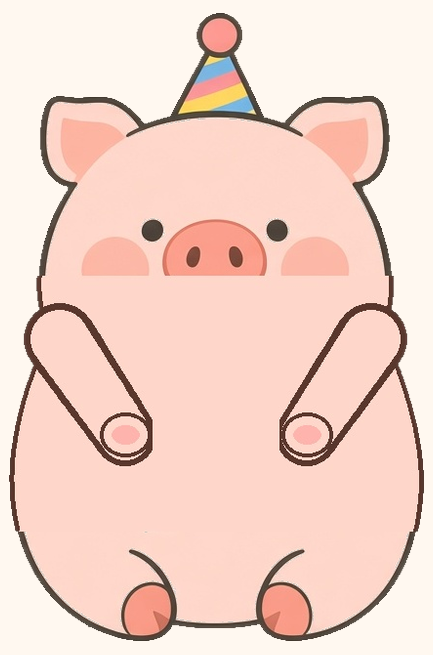
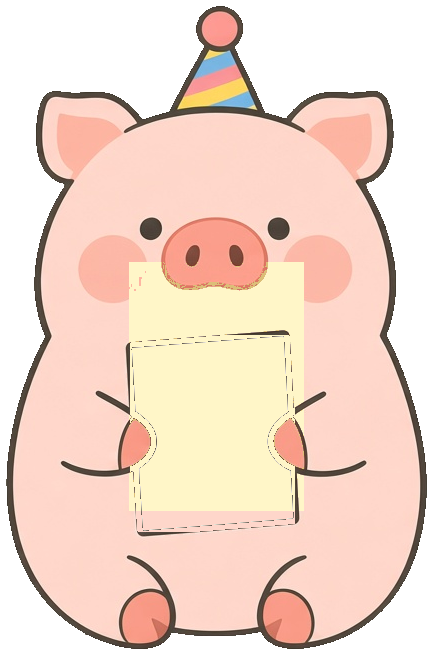
fix: stub hands + baked yellow card, stop digit clipping
Restore stubby notch-grip hands with thin arm curves (no tube arms).
Bake solid #FFF6C8 card into PNG so color shows before countdown text.
Align HTML overlay to card; center/pad .num so digits stay in boxes.

diff --git a/css/styles.css b/css/styles.css
@@ -326,41 +326,41 @@ button, .btn-replay, .cta-hint, .birthday-sign {
     padding-bottom: 0.5rem;
     z-index: 12;
   }
-  /* Mobile: larger countdown card so label + units + 點擊進入 all fit */
+  /* Mobile: card a bit wider for text, still within stub-hand grip */
   .birthday-sign {
-    top: 50%;
-    width: 52%;
-    height: 32%;
-    min-height: 32%;
-    max-height: 36%;
-    padding: 8px 6px 6px;
+    top: 41%;
+    width: 44%;
+    height: 36%;
+    min-height: 34%;
+    max-height: 40%;
+    padding: 8px 5px 6px;
     border-width: 3px !important;
     border-radius: 12px;
   }
   .flyer-wrap.flying .birthday-sign {
-    top: 50%;
-    width: 52%;
-    height: 30%;
+    top: 41%;
+    width: 44%;
+    height: 36%;
   }
   .sign-label {
-    font-size: clamp(0.72rem, 3.2vw, 0.95rem);
+    font-size: clamp(0.68rem, 2.8vw, 0.88rem);
     margin-bottom: 4px;
   }
   .birthday-sign .sign-unit .num {
-    font-size: clamp(1.05rem, 5.2vw, 1.55rem);
+    font-size: clamp(0.78rem, 3.2vw, 1.05rem);
   }
   .birthday-sign .sign-unit .lbl {
-    font-size: clamp(0.58rem, 2.4vw, 0.75rem);
+    font-size: clamp(0.5rem, 2vw, 0.65rem);
   }
   .birthday-sign .sign-click-hint {
-    font-size: clamp(0.85rem, 3.6vw, 1.05rem);
-    margin-top: 6px;
+    font-size: clamp(0.72rem, 3vw, 0.92rem);
+    margin-top: 5px;
   }
   .sign-countdown {
-    gap: 4px;
+    gap: 3px;
   }
   .sign-unit {
-    padding: 4px 2px;
+    padding: 3px 2px;
     border-radius: 6px;
   }
 }
@@ -371,21 +371,21 @@ button, .btn-replay, .cta-hint, .birthday-sign {
     --flyer-landed-h: min(52vh, 440px);
   }
   .birthday-sign {
-    top: 49%;
-    width: 54%;
-    height: 34%;
-    min-height: 34%;
-    max-height: 38%;
-    padding: 8px 6px 7px;
+    top: 41%;
+    width: 46%;
+    height: 37%;
+    min-height: 35%;
+    max-height: 42%;
+    padding: 7px 4px 6px;
   }
   .sign-label {
-    font-size: clamp(0.78rem, 3.6vw, 1rem);
+    font-size: clamp(0.7rem, 3vw, 0.9rem);
   }
   .birthday-sign .sign-unit .num {
-    font-size: clamp(1.1rem, 5.8vw, 1.6rem);
+    font-size: clamp(0.8rem, 3.4vw, 1.05rem);
   }
   .birthday-sign .sign-click-hint {
-    font-size: clamp(0.9rem, 4vw, 1.1rem);
+    font-size: clamp(0.75rem, 3.2vw, 0.95rem);
   }
 }
 /* Very short viewports only: shrink just enough to keep hat→feet on screen */
@@ -472,19 +472,19 @@ button, .btn-replay, .cta-hint, .birthday-sign {
 .birthday-sign {
   position: absolute;
   left: 50%;
-  /* Below snout/blush; between stubby hands gripping L/R edges */
-  top: 52%;
+  /* Align to baked yellow card in PNG (top~40%, W~40%, H~38%); hands grip L/R notches */
+  top: 41%;
   bottom: auto;
   display: flex;
   flex-direction: column;
   align-items: center;
   justify-content: center;
   width: 40%;
-  height: 27%;
-  min-height: 27%;
-  max-height: 30%;
+  height: 36%;
+  min-height: 34%;
+  max-height: 38%;
   margin: 0;
-  padding: 6px 5px 5px;
+  padding: 8px 6px 6px;
   /* Solid opaque pale yellow — never see-through */
   background: #FFF6C8 !important;
   background-color: #FFF6C8 !important;
@@ -523,11 +523,12 @@ button, .btn-replay, .cta-hint, .birthday-sign {
 .flyer-wrap.flying .birthday-sign {
   position: absolute;
   left: 50%;
-  top: 52%;
-  width: 42%;
-  height: 25%;
+  top: 41%;
+  width: 40%;
+  height: 36%;
   margin: 0;
   transform: translateX(-50%) scale(0.85);
+  /* Hidden during flight — baked yellow card in PNG already shows solid color */
   opacity: 0;
   pointer-events: none;
 }
@@ -566,17 +567,30 @@ button, .btn-replay, .cta-hint, .birthday-sign {
   background-color: #FFFBE8;
   border: 1px solid #C4A574;
   border-radius: 5px;
-  padding: 2px 1px;
+  padding: 3px 2px;
   min-width: 0;
   opacity: 1;
+  display: flex;
+  flex-direction: column;
+  align-items: center;
+  justify-content: center;
+  overflow: hidden;
+  box-sizing: border-box;
 }
 .sign-unit .num {
   display: block;
-  font-size: clamp(0.72rem, 2.6vw, 0.95rem);
+  width: 100%;
+  text-align: center;
+  font-size: clamp(0.68rem, 2.2vw, 0.92rem);
   font-weight: 800;
   color: var(--pink-deep);
   font-variant-numeric: tabular-nums;
-  line-height: 1.1;
+  line-height: 1.15;
+  letter-spacing: 0;
+  padding: 0 1px;
+  margin: 0;
+  box-sizing: border-box;
+  overflow: visible;
 }
 .sign-unit .lbl {
   display: block;
@@ -866,9 +880,9 @@ button, .btn-replay, .cta-hint, .birthday-sign {
     animation: none !important;
     position: absolute !important;
     left: 50% !important;
-    top: 52% !important;
-    width: 42% !important;
-    height: 27% !important;
+    top: 41% !important;
+    width: 40% !important;
+    height: 36% !important;
     margin: 0 !important;
   }
   .cloud, .sun { animation: none; }
@@ -960,10 +974,15 @@ button, .btn-replay, .cta-hint, .birthday-sign {
   width: 100%;
 }
 .birthday-sign .sign-unit .num {
-  font-size: clamp(0.95rem, 4.8vw, 1.45rem);
+  /* Keep digits inside white boxes — no left-edge clip */
+  font-size: clamp(0.72rem, 2.4vw, 1.05rem);
   font-weight: 800;
-  line-height: 1.05;
+  line-height: 1.15;
   color: var(--pink-deep);
+  text-align: center;
+  width: 100%;
+  box-sizing: border-box;
+  padding: 0 2px;
 }
 .birthday-sign .sign-unit .lbl {
   font-size: clamp(0.55rem, 2vw, 0.7rem);
